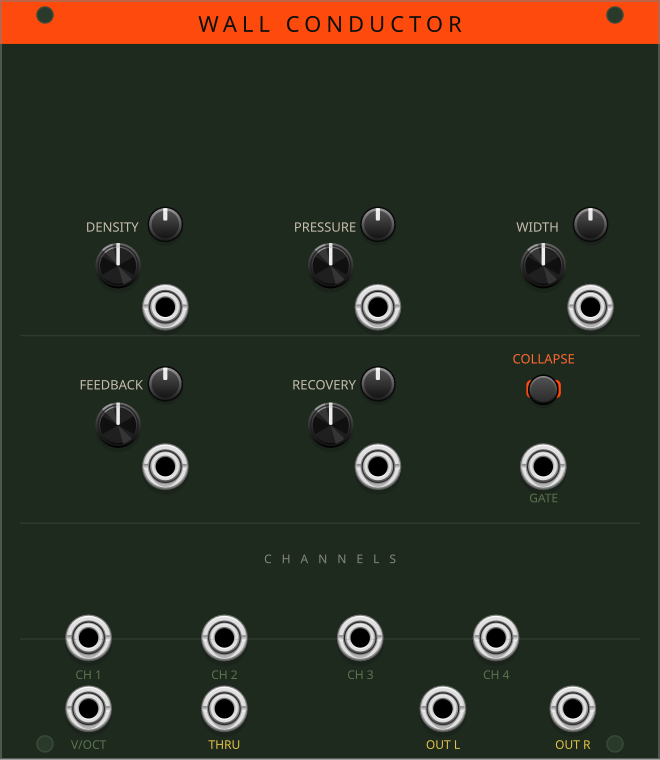
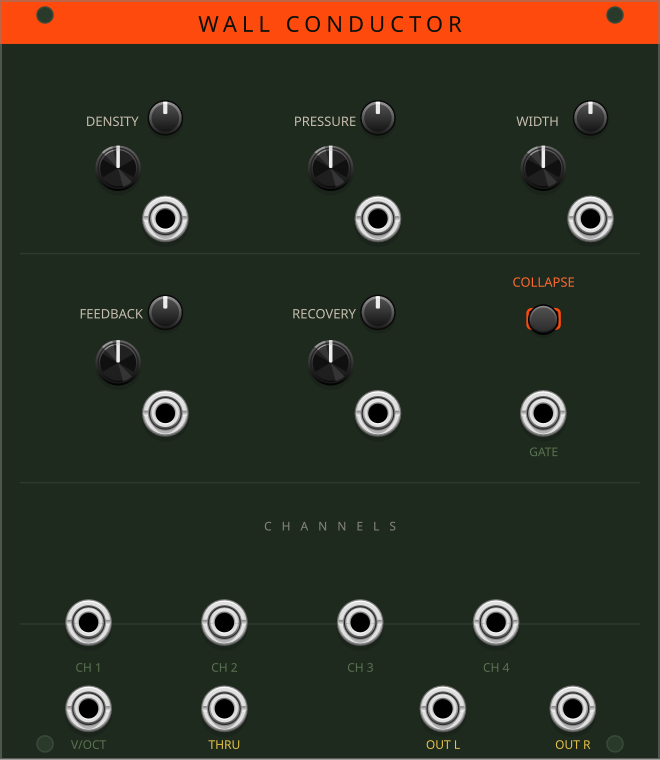
fix(panels): reflow WallConductor, and put back the shapes the tools left behind
WallConductor had a 24mm gap under its header; reflowed about the bottom row.

DroneClone and Send were already changed by tools that handled only rect and
path, so every circle and line - jack collars, LEDs, dividers - stayed at its
old coordinate while the widgets moved. That is what the loose dots on both
panels were. Corrected with the same transform each panel received.

diff --git a/src/WallConductor.cpp b/src/WallConductor.cpp
@@ -168,43 +168,43 @@ struct WallConductorWidget : ModuleWidget {
 		// x cols for knobs: 20, 56, 92 mm
 		// x cols for satellites: 28, 64, 100 mm (knob + 8mm)
 
-		addParam(createParamCentered<RoundSmallBlackKnob>(mm2px(Vec(20.f, 45.f)), module, WallConductor::DENSITY_PARAM));
-		addParam(createParamCentered<Trimpot>(            mm2px(Vec(28.f, 38.f)), module, WallConductor::DENSITY_ATTEN_PARAM));
-		addInput(createInputCentered<PJ301MPort>(         mm2px(Vec(28.f, 52.f)), module, WallConductor::DENSITY_CV_INPUT));
+		addParam(createParamCentered<RoundSmallBlackKnob>(mm2px(Vec(20.f,28.5f)), module, WallConductor::DENSITY_PARAM));
+		addParam(createParamCentered<Trimpot>(            mm2px(Vec(28.f,19.96f)), module, WallConductor::DENSITY_ATTEN_PARAM));
+		addInput(createInputCentered<PJ301MPort>(         mm2px(Vec(28.f,37.04f)), module, WallConductor::DENSITY_CV_INPUT));
 
-		addParam(createParamCentered<RoundSmallBlackKnob>(mm2px(Vec(56.f, 45.f)), module, WallConductor::PRESSURE_PARAM));
-		addParam(createParamCentered<Trimpot>(            mm2px(Vec(64.f, 38.f)), module, WallConductor::PRESSURE_ATTEN_PARAM));
-		addInput(createInputCentered<PJ301MPort>(         mm2px(Vec(64.f, 52.f)), module, WallConductor::PRESSURE_CV_INPUT));
+		addParam(createParamCentered<RoundSmallBlackKnob>(mm2px(Vec(56.f,28.5f)), module, WallConductor::PRESSURE_PARAM));
+		addParam(createParamCentered<Trimpot>(            mm2px(Vec(64.f,19.96f)), module, WallConductor::PRESSURE_ATTEN_PARAM));
+		addInput(createInputCentered<PJ301MPort>(         mm2px(Vec(64.f,37.04f)), module, WallConductor::PRESSURE_CV_INPUT));
 
-		addParam(createParamCentered<RoundSmallBlackKnob>(mm2px(Vec(92.f, 45.f)), module, WallConductor::WIDTH_PARAM));
-		addParam(createParamCentered<Trimpot>(            mm2px(Vec(100.f, 38.f)), module, WallConductor::WIDTH_ATTEN_PARAM));
-		addInput(createInputCentered<PJ301MPort>(         mm2px(Vec(100.f, 52.f)), module, WallConductor::WIDTH_CV_INPUT));
+		addParam(createParamCentered<RoundSmallBlackKnob>(mm2px(Vec(92.f,28.5f)), module, WallConductor::WIDTH_PARAM));
+		addParam(createParamCentered<Trimpot>(            mm2px(Vec(100.f,19.96f)), module, WallConductor::WIDTH_ATTEN_PARAM));
+		addInput(createInputCentered<PJ301MPort>(         mm2px(Vec(100.f,37.04f)), module, WallConductor::WIDTH_CV_INPUT));
 
 		// ── Row 2: FEEDBACK | RECOVERY | COLLAPSE ─────────────────
 
-		addParam(createParamCentered<RoundSmallBlackKnob>(mm2px(Vec(20.f, 72.f)), module, WallConductor::FEEDBACK_PARAM));
-		addParam(createParamCentered<Trimpot>(            mm2px(Vec(28.f, 65.f)), module, WallConductor::FEEDBACK_ATTEN_PARAM));
-		addInput(createInputCentered<PJ301MPort>(         mm2px(Vec(28.f, 79.f)), module, WallConductor::FEEDBACK_CV_INPUT));
+		addParam(createParamCentered<RoundSmallBlackKnob>(mm2px(Vec(20.f,61.44f)), module, WallConductor::FEEDBACK_PARAM));
+		addParam(createParamCentered<Trimpot>(            mm2px(Vec(28.f,52.9f)), module, WallConductor::FEEDBACK_ATTEN_PARAM));
+		addInput(createInputCentered<PJ301MPort>(         mm2px(Vec(28.f,69.98f)), module, WallConductor::FEEDBACK_CV_INPUT));
 
-		addParam(createParamCentered<RoundSmallBlackKnob>(mm2px(Vec(56.f, 72.f)), module, WallConductor::RECOVERY_PARAM));
-		addParam(createParamCentered<Trimpot>(            mm2px(Vec(64.f, 65.f)), module, WallConductor::RECOVERY_ATTEN_PARAM));
-		addInput(createInputCentered<PJ301MPort>(         mm2px(Vec(64.f, 79.f)), module, WallConductor::RECOVERY_CV_INPUT));
+		addParam(createParamCentered<RoundSmallBlackKnob>(mm2px(Vec(56.f,61.44f)), module, WallConductor::RECOVERY_PARAM));
+		addParam(createParamCentered<Trimpot>(            mm2px(Vec(64.f,52.9f)), module, WallConductor::RECOVERY_ATTEN_PARAM));
+		addInput(createInputCentered<PJ301MPort>(         mm2px(Vec(64.f,69.98f)), module, WallConductor::RECOVERY_CV_INPUT));
 
 		// COLLAPSE: button stacked above gate input
-		addParam(createParamCentered<TL1105>(    mm2px(Vec(92.f, 66.f)), module, WallConductor::COLLAPSE_PARAM));
-		addInput(createInputCentered<PJ301MPort>(mm2px(Vec(92.f, 79.f)), module, WallConductor::COLLAPSE_INPUT));
+		addParam(createParamCentered<TL1105>(    mm2px(Vec(92.f,54.12f)), module, WallConductor::COLLAPSE_PARAM));
+		addInput(createInputCentered<PJ301MPort>(mm2px(Vec(92.f,69.98f)), module, WallConductor::COLLAPSE_INPUT));
 
 		// ── Row 3: Channel inputs ──────────────────────────────────
-		addInput(createInputCentered<PJ301MPort>(mm2px(Vec(15.f,  108.f)), module, WallConductor::CH1_INPUT));
-		addInput(createInputCentered<PJ301MPort>(mm2px(Vec(38.f,  108.f)), module, WallConductor::CH2_INPUT));
-		addInput(createInputCentered<PJ301MPort>(mm2px(Vec(61.f,  108.f)), module, WallConductor::CH3_INPUT));
-		addInput(createInputCentered<PJ301MPort>(mm2px(Vec(84.f,  108.f)), module, WallConductor::CH4_INPUT));
+		addInput(createInputCentered<PJ301MPort>(mm2px(Vec(15.f,105.4f)), module, WallConductor::CH1_INPUT));
+		addInput(createInputCentered<PJ301MPort>(mm2px(Vec(38.f,105.4f)), module, WallConductor::CH2_INPUT));
+		addInput(createInputCentered<PJ301MPort>(mm2px(Vec(61.f,105.4f)), module, WallConductor::CH3_INPUT));
+		addInput(createInputCentered<PJ301MPort>(mm2px(Vec(84.f,105.4f)), module, WallConductor::CH4_INPUT));
 
 		// ── Row 4: V/OCT thru + stereo out ────────────────────────
-		addInput(createInputCentered<PJ301MPort>( mm2px(Vec(15.f,  120.f)), module, WallConductor::VOCT_INPUT));
-		addOutput(createOutputCentered<PJ301MPort>(mm2px(Vec(38.f,  120.f)), module, WallConductor::VOCT_OUTPUT));
-		addOutput(createOutputCentered<PJ301MPort>(mm2px(Vec(75.f,  120.f)), module, WallConductor::OUT_L_OUTPUT));
-		addOutput(createOutputCentered<PJ301MPort>(mm2px(Vec(97.f,  120.f)), module, WallConductor::OUT_R_OUTPUT));
+		addInput(createInputCentered<PJ301MPort>( mm2px(Vec(15.f,120.f)), module, WallConductor::VOCT_INPUT));
+		addOutput(createOutputCentered<PJ301MPort>(mm2px(Vec(38.f,120.f)), module, WallConductor::VOCT_OUTPUT));
+		addOutput(createOutputCentered<PJ301MPort>(mm2px(Vec(75.f,120.f)), module, WallConductor::OUT_L_OUTPUT));
+		addOutput(createOutputCentered<PJ301MPort>(mm2px(Vec(97.f,120.f)), module, WallConductor::OUT_R_OUTPUT));
 	}
 
 };
